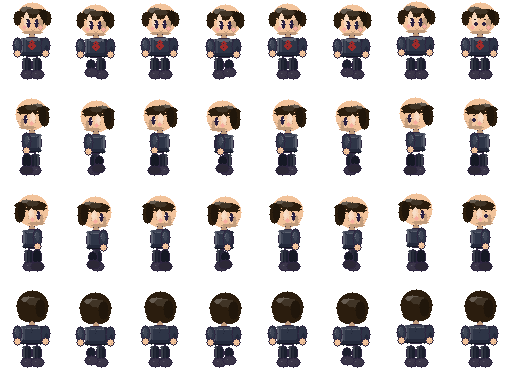
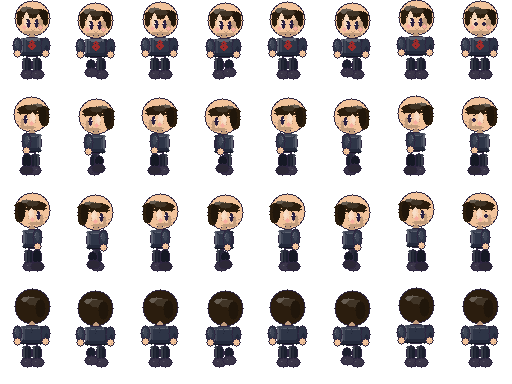
fix: restore head outline ring, fix dark blob behind player head, fix Yuki bald appearance
- Replace solid OUTLINE head disk with ciO outlined circle in both
  generate-assets.ts and chargen.ts (runtime sprite generator)
- Move sideburns inward to stay within head outline bounds
- Expand ponytail hair cap to fully cover top of head (y=9 vs y=13)
- Apply fixes to both pre-baked and runtime character generators

diff --git a/scripts/generate-assets.ts b/scripts/generate-assets.ts
@@ -1661,7 +1661,7 @@ function drawChar(s: Sheet, ox: number, oy: number, pal: CharPalette, dir: Dir, 
       el(hx(32), hy(15), 10, 2, skinDk);
     } else if (hs === "balding") {
       ci(hx(32), hy(18), 16, pal.skin);
-      el(hx(17), hy(18), 4, 5 + hb, pal.hair); el(hx(47), hy(18), 4, 5 + hb, pal.hair);
+      el(hx(19), hy(18), 3, 5 + hb, pal.hair); el(hx(45), hy(18), 3, 5 + hb, pal.hair);
       el(hx(32), hy(14), 6, 3, pal.hair);
       s.set(hx(27), hy(15), pal.skin); s.set(hx(37), hy(15), pal.skin);
       el(hx(32), hy(16), 4, 1, hairDk);
@@ -1669,7 +1669,7 @@ function drawChar(s: Sheet, ox: number, oy: number, pal: CharPalette, dir: Dir, 
     } else if (hs === "spiky") {
       el(hx(32), hy(13), 16, 5, pal.hair);
       for (let i = -2; i <= 2; i++) { const sx = hx(32 + i * 6); s.set(sx, hy(4 + Math.abs(i) * 2), pal.hair); s.set(sx + 1, hy(5 + Math.abs(i) * 2), pal.hair); s.set(sx - 1, hy(6 + Math.abs(i) * 2), pal.hair); }
-      el(hx(17), hy(18), 4, 7 + hb, pal.hair); el(hx(47), hy(18), 4, 7 + hb, pal.hair);
+      el(hx(19), hy(18), 3, 7 + hb, pal.hair); el(hx(45), hy(18), 3, 7 + hb, pal.hair);
       el(hx(32), hy(14), 15, 4, pal.hair);
       s.set(hx(24), hy(14), pal.hair); s.set(hx(30), hy(13), pal.hair); s.set(hx(34), hy(13), pal.hair); s.set(hx(40), hy(14), pal.hair);
       el(hx(28), hy(8), 6, 3, hairLi); el(hx(34), hy(10), 7, 3, hairMid); el(hx(43), hy(16), 4, 7, hairDk);
@@ -1684,15 +1684,15 @@ function drawChar(s: Sheet, ox: number, oy: number, pal: CharPalette, dir: Dir, 
       el(hx(18), hy(18), 3, 5, pal.hair); el(hx(46), hy(18), 3, 5, pal.hair);
       el(hx(28), hy(12), 6, 2, hairLi); el(hx(34), hy(13), 6, 2, hairMid); el(hx(43), hy(16), 3, 5, hairDk);
     } else if (hs === "ponytail") {
-      el(hx(32), hy(13), 16, 5, pal.hair);
-      el(hx(17), hy(18), 4, 7, pal.hair);
+      el(hx(32), hy(9), 16, 9, pal.hair);
+      el(hx(19), hy(18), 3, 7, pal.hair);
       el(hx(50), hy(15), 3, 8 + hb, pal.hair); s.set(hx(52), hy(17 + hb), pal.hair); s.set(hx(53), hy(20 + hb), pal.hair);
       el(hx(32), hy(14), 15, 4, pal.hair); rr(hx(21), hy(16), 22, 2, 3, pal.hair);
-      el(hx(28), hy(9), 7, 3, hairLi); el(hx(34), hy(11), 8, 4, hairMid); el(hx(43), hy(16), 4, 7, hairDk);
+      el(hx(28), hy(6), 7, 3, hairLi); el(hx(34), hy(8), 8, 4, hairMid); el(hx(43), hy(16), 4, 7, hairDk);
       el(hx(51), hy(14), 2, 3, hairLi);
     } else if (hs === "swept") {
       el(hx(32), hy(13), 16, 5, pal.hair);
-      el(hx(17), hy(18), 4, 7 + hb, pal.hair); el(hx(47), hy(18), 4, 7 + hb, pal.hair);
+      el(hx(19), hy(18), 3, 7 + hb, pal.hair); el(hx(45), hy(18), 3, 7 + hb, pal.hair);
       el(hx(36), hy(15), 10, 3, pal.hair);
       rr(hx(25), hy(16), 20, 2, 3, pal.hair);
       s.set(hx(24), hy(15), pal.skin); s.set(hx(25), hy(14), pal.skin);
@@ -1701,13 +1701,13 @@ function drawChar(s: Sheet, ox: number, oy: number, pal: CharPalette, dir: Dir, 
     } else if (hs === "curly") {
       el(hx(32), hy(12), 16, 5, pal.hair);
       ci(hx(22), hy(8), 4, pal.hair); ci(hx(32), hy(6), 5, pal.hair); ci(hx(42), hy(8), 4, pal.hair);
-      el(hx(16), hy(19), 5, 8 + hb, pal.hair); el(hx(48), hy(19), 5, 8 + hb, pal.hair);
+      el(hx(19), hy(19), 3, 8 + hb, pal.hair); el(hx(45), hy(19), 3, 8 + hb, pal.hair);
       el(hx(32), hy(14), 15, 4, pal.hair); ci(hx(25), hy(15), 3, pal.hair); ci(hx(39), hy(15), 3, pal.hair);
       ci(hx(26), hy(8), 2, hairLi); ci(hx(34), hy(7), 2, hairRim); el(hx(38), hy(10), 4, 3, hairMid); el(hx(43), hy(16), 4, 7, hairDk);
     } else if (hs === "bun") {
       el(hx(32), hy(13), 16, 5, pal.hair);
       ci(hx(32), hy(4), 5, pal.hair); ci(hx(32), hy(4), 3, hairMid);
-      el(hx(17), hy(18), 4, 7 + hb, pal.hair); el(hx(47), hy(18), 4, 7 + hb, pal.hair);
+      el(hx(19), hy(18), 3, 7 + hb, pal.hair); el(hx(45), hy(18), 3, 7 + hb, pal.hair);
       el(hx(32), hy(14), 15, 4, pal.hair); rr(hx(21), hy(16), 22, 2, 3, pal.hair);
       el(hx(28), hy(9), 7, 3, hairLi); el(hx(34), hy(11), 8, 4, hairMid); el(hx(43), hy(16), 4, 7, hairDk);
       ci(hx(30), hy(3), 2, hairRim);
@@ -1719,7 +1719,7 @@ function drawChar(s: Sheet, ox: number, oy: number, pal: CharPalette, dir: Dir, 
       s.set(hx(30), hy(4), hairLi); s.set(hx(31), hy(6), hairMid);
     } else if (hs === "afro") {
       ci(hx(32), hy(12), 18, pal.hair);
-      el(hx(17), hy(18), 5, 7 + hb, pal.hair); el(hx(47), hy(18), 5, 7 + hb, pal.hair);
+      el(hx(19), hy(18), 3, 7 + hb, pal.hair); el(hx(45), hy(18), 3, 7 + hb, pal.hair);
       ci(hx(26), hy(8), 3, hairLi); ci(hx(36), hy(10), 4, hairMid); el(hx(43), hy(16), 4, 7, hairDk);
     } else if (hs === "braids") {
       el(hx(32), hy(13), 16, 5, pal.hair);
@@ -1731,7 +1731,7 @@ function drawChar(s: Sheet, ox: number, oy: number, pal: CharPalette, dir: Dir, 
       el(hx(32), hy(13), 16, 5, pal.hair);
       ci(hx(15), hy(20), 4, pal.hair); ci(hx(49), hy(20), 4, pal.hair);
       ci(hx(15), hy(20), 2, hairMid); ci(hx(49), hy(20), 2, hairMid);
-      el(hx(17), hy(18), 4, 7 + hb, pal.hair); el(hx(47), hy(18), 4, 7 + hb, pal.hair);
+      el(hx(19), hy(18), 3, 7 + hb, pal.hair); el(hx(45), hy(18), 3, 7 + hb, pal.hair);
       el(hx(32), hy(14), 15, 4, pal.hair); rr(hx(21), hy(16), 22, 2, 3, pal.hair);
       el(hx(28), hy(9), 7, 3, hairLi); el(hx(34), hy(11), 8, 4, hairMid); el(hx(43), hy(16), 4, 7, hairDk);
     } else if (hs === "bob") {
@@ -1748,7 +1748,7 @@ function drawChar(s: Sheet, ox: number, oy: number, pal: CharPalette, dir: Dir, 
       el(hx(28), hy(9), 7, 3, hairLi); el(hx(34), hy(11), 8, 4, hairMid); el(hx(43), hy(16), 4, 7, hairDk);
     } else {
       el(hx(32), hy(13), 16, 5, pal.hair);
-      el(hx(17), hy(18), 4, 7 + hb, pal.hair); el(hx(47), hy(18), 4, 7 + hb, pal.hair);
+      el(hx(19), hy(18), 3, 7 + hb, pal.hair); el(hx(45), hy(18), 3, 7 + hb, pal.hair);
       el(hx(32), hy(14), 15, 4, pal.hair); rr(hx(21), hy(16), 22, 2, 3, pal.hair);
       el(hx(28), hy(9), 7, 3, hairLi); el(hx(26), hy(10), 4, 2, hairRim); el(hx(34), hy(11), 8, 4, hairMid);
       el(hx(43), hy(16), 4, 7, hairDk); s.set(hx(44), hy(14), hairDk); s.set(hx(45), hy(18), hairDk);
@@ -1861,11 +1861,11 @@ function drawChar(s: Sheet, ox: number, oy: number, pal: CharPalette, dir: Dir, 
       el(hx(32), hy(16), 13, 2, pal.hair);
       el(hx(26), hy(11), 5, 2, hairLi); el(hx(32), hy(13), 5, 2, hairMid); el(hx(21), hy(19), 3, 7, hairDk);
     } else if (hs === "ponytail") {
-      el(hx(30), hy(13), 16, 5, pal.hair);
+      el(hx(30), hy(9), 16, 9, pal.hair);
       el(hx(16), hy(18), 4, 10 + hb, pal.hair); s.set(hx(15), hy(20 + hb), pal.hair); s.set(hx(15), hy(22 + hb), pal.hair);
       el(hx(19), hy(21), 5, 9, pal.hair);
       el(hx(32), hy(16), 13, 2, pal.hair); rr(hx(25), hy(16), 18, 2, 3, pal.hair);
-      el(hx(26), hy(9), 5, 2, hairLi); el(hx(32), hy(11), 6, 3, hairMid); el(hx(21), hy(19), 4, 9, hairDk);
+      el(hx(26), hy(5), 5, 2, hairLi); el(hx(32), hy(8), 6, 3, hairMid); el(hx(21), hy(19), 4, 9, hairDk);
     } else if (hs === "swept") {
       el(hx(30), hy(13), 16, 5, pal.hair); el(hx(19), hy(21), 5, 9 + hb, pal.hair);
       el(hx(36), hy(16), 10, 2, pal.hair); rr(hx(27), hy(16), 18, 2, 3, pal.hair);
@@ -2103,8 +2103,8 @@ function drawChar(s: Sheet, ox: number, oy: number, pal: CharPalette, dir: Dir, 
   // ===== ROUNDED CHIBI (64x96) — detailed, crisp edges =====
 
   if (d === "down") {
-    // ---- HEAD: round dome ----
-    ci(hx(32), hy(18), 16, pal.skin);
+    // ---- HEAD: round dome with outline ----
+    ciO(hx(32), hy(18), 17, pal.skin);
     // Face
     el(hx(32), hy(22), 13, 12, pal.skin);
     // Hair (per-style)
@@ -2235,8 +2235,8 @@ function drawChar(s: Sheet, ox: number, oy: number, pal: CharPalette, dir: Dir, 
     }
 
   } else if (d === "up") {
-    // ---- HEAD: all hair ----
-    ci(hx(32), hy(18), 16, pal.hair);
+    // ---- HEAD: all hair, with outline ----
+    ciO(hx(32), hy(18), 17, pal.hair);
     drawHairUp();
     drawHeadFeature("up");
     // Accessory
@@ -2314,7 +2314,7 @@ function drawChar(s: Sheet, ox: number, oy: number, pal: CharPalette, dir: Dir, 
 
   } else {
     // ---- RIGHT PROFILE ----
-    ci(hx(32), hy(18), 16, pal.skin);
+    ciO(hx(32), hy(18), 17, pal.skin);
     // Face
     el(hx(35), hy(24), 11, 9, pal.skin);
     // Hair (per-style)

diff --git a/client/src/game/chargen.ts b/client/src/game/chargen.ts
@@ -322,7 +322,7 @@ function drawChar(s: PixelSheet, ox: number, oy: number, pal: CharPalette, dir: 
       el(hx(32), hy(15), 10, 2, skinDk);
     } else if (hs === "balding") {
       ci(hx(32), hy(18), 16, pal.skin);
-      el(hx(17), hy(18), 4, 5 + hb, pal.hair); el(hx(47), hy(18), 4, 5 + hb, pal.hair);
+      el(hx(19), hy(18), 3, 5 + hb, pal.hair); el(hx(45), hy(18), 3, 5 + hb, pal.hair);
       el(hx(32), hy(14), 6, 3, pal.hair);
       s.set(hx(27), hy(15), pal.skin); s.set(hx(37), hy(15), pal.skin);
       el(hx(32), hy(16), 4, 1, hairDk);
@@ -330,7 +330,7 @@ function drawChar(s: PixelSheet, ox: number, oy: number, pal: CharPalette, dir: 
     } else if (hs === "spiky") {
       el(hx(32), hy(13), 16, 5, pal.hair);
       for (let i = -2; i <= 2; i++) { const sx = hx(32 + i * 6); s.set(sx, hy(4 + Math.abs(i) * 2), pal.hair); s.set(sx + 1, hy(5 + Math.abs(i) * 2), pal.hair); s.set(sx - 1, hy(6 + Math.abs(i) * 2), pal.hair); }
-      el(hx(17), hy(18), 4, 7 + hb, pal.hair); el(hx(47), hy(18), 4, 7 + hb, pal.hair);
+      el(hx(19), hy(18), 3, 7 + hb, pal.hair); el(hx(45), hy(18), 3, 7 + hb, pal.hair);
       el(hx(32), hy(14), 15, 4, pal.hair);
       s.set(hx(24), hy(14), pal.hair); s.set(hx(30), hy(13), pal.hair); s.set(hx(34), hy(13), pal.hair); s.set(hx(40), hy(14), pal.hair);
       el(hx(28), hy(8), 6, 3, hairLi); el(hx(34), hy(10), 7, 3, hairMid); el(hx(43), hy(16), 4, 7, hairDk);
@@ -345,15 +345,15 @@ function drawChar(s: PixelSheet, ox: number, oy: number, pal: CharPalette, dir: 
       el(hx(18), hy(18), 3, 5, pal.hair); el(hx(46), hy(18), 3, 5, pal.hair);
       el(hx(28), hy(12), 6, 2, hairLi); el(hx(34), hy(13), 6, 2, hairMid); el(hx(43), hy(16), 3, 5, hairDk);
     } else if (hs === "ponytail") {
-      el(hx(32), hy(13), 16, 5, pal.hair);
-      el(hx(17), hy(18), 4, 7, pal.hair);
+      el(hx(32), hy(9), 16, 9, pal.hair);
+      el(hx(19), hy(18), 3, 7, pal.hair);
       el(hx(50), hy(15), 3, 8 + hb, pal.hair); s.set(hx(52), hy(17 + hb), pal.hair); s.set(hx(53), hy(20 + hb), pal.hair);
       el(hx(32), hy(14), 15, 4, pal.hair); rr(hx(21), hy(16), 22, 2, 3, pal.hair);
-      el(hx(28), hy(9), 7, 3, hairLi); el(hx(34), hy(11), 8, 4, hairMid); el(hx(43), hy(16), 4, 7, hairDk);
+      el(hx(28), hy(6), 7, 3, hairLi); el(hx(34), hy(8), 8, 4, hairMid); el(hx(43), hy(16), 4, 7, hairDk);
       el(hx(51), hy(14), 2, 3, hairLi);
     } else if (hs === "swept") {
       el(hx(32), hy(13), 16, 5, pal.hair);
-      el(hx(17), hy(18), 4, 7 + hb, pal.hair); el(hx(47), hy(18), 4, 7 + hb, pal.hair);
+      el(hx(19), hy(18), 3, 7 + hb, pal.hair); el(hx(45), hy(18), 3, 7 + hb, pal.hair);
       el(hx(36), hy(15), 10, 3, pal.hair);
       rr(hx(25), hy(16), 20, 2, 3, pal.hair);
       s.set(hx(24), hy(15), pal.skin); s.set(hx(25), hy(14), pal.skin);
@@ -362,13 +362,13 @@ function drawChar(s: PixelSheet, ox: number, oy: number, pal: CharPalette, dir: 
     } else if (hs === "curly") {
       el(hx(32), hy(12), 16, 5, pal.hair);
       ci(hx(22), hy(8), 4, pal.hair); ci(hx(32), hy(6), 5, pal.hair); ci(hx(42), hy(8), 4, pal.hair);
-      el(hx(16), hy(19), 5, 8 + hb, pal.hair); el(hx(48), hy(19), 5, 8 + hb, pal.hair);
+      el(hx(19), hy(19), 3, 8 + hb, pal.hair); el(hx(45), hy(19), 3, 8 + hb, pal.hair);
       el(hx(32), hy(14), 15, 4, pal.hair); ci(hx(25), hy(15), 3, pal.hair); ci(hx(39), hy(15), 3, pal.hair);
       ci(hx(26), hy(8), 2, hairLi); ci(hx(34), hy(7), 2, hairRim); el(hx(38), hy(10), 4, 3, hairMid); el(hx(43), hy(16), 4, 7, hairDk);
     } else if (hs === "bun") {
       el(hx(32), hy(13), 16, 5, pal.hair);
       ci(hx(32), hy(4), 5, pal.hair); ci(hx(32), hy(4), 3, hairMid);
-      el(hx(17), hy(18), 4, 7 + hb, pal.hair); el(hx(47), hy(18), 4, 7 + hb, pal.hair);
+      el(hx(19), hy(18), 3, 7 + hb, pal.hair); el(hx(45), hy(18), 3, 7 + hb, pal.hair);
       el(hx(32), hy(14), 15, 4, pal.hair); rr(hx(21), hy(16), 22, 2, 3, pal.hair);
       el(hx(28), hy(9), 7, 3, hairLi); el(hx(34), hy(11), 8, 4, hairMid); el(hx(43), hy(16), 4, 7, hairDk);
       ci(hx(30), hy(3), 2, hairRim);
@@ -380,7 +380,7 @@ function drawChar(s: PixelSheet, ox: number, oy: number, pal: CharPalette, dir: 
       s.set(hx(30), hy(4), hairLi); s.set(hx(31), hy(6), hairMid);
     } else if (hs === "afro") {
       ci(hx(32), hy(12), 18, pal.hair);
-      el(hx(17), hy(18), 5, 7 + hb, pal.hair); el(hx(47), hy(18), 5, 7 + hb, pal.hair);
+      el(hx(19), hy(18), 3, 7 + hb, pal.hair); el(hx(45), hy(18), 3, 7 + hb, pal.hair);
       ci(hx(26), hy(8), 3, hairLi); ci(hx(36), hy(10), 4, hairMid); el(hx(43), hy(16), 4, 7, hairDk);
     } else if (hs === "braids") {
       el(hx(32), hy(13), 16, 5, pal.hair);
@@ -392,7 +392,7 @@ function drawChar(s: PixelSheet, ox: number, oy: number, pal: CharPalette, dir: 
       el(hx(32), hy(13), 16, 5, pal.hair);
       ci(hx(15), hy(20), 4, pal.hair); ci(hx(49), hy(20), 4, pal.hair);
       ci(hx(15), hy(20), 2, hairMid); ci(hx(49), hy(20), 2, hairMid);
-      el(hx(17), hy(18), 4, 7 + hb, pal.hair); el(hx(47), hy(18), 4, 7 + hb, pal.hair);
+      el(hx(19), hy(18), 3, 7 + hb, pal.hair); el(hx(45), hy(18), 3, 7 + hb, pal.hair);
       el(hx(32), hy(14), 15, 4, pal.hair); rr(hx(21), hy(16), 22, 2, 3, pal.hair);
       el(hx(28), hy(9), 7, 3, hairLi); el(hx(34), hy(11), 8, 4, hairMid); el(hx(43), hy(16), 4, 7, hairDk);
     } else if (hs === "bob") {
@@ -409,7 +409,7 @@ function drawChar(s: PixelSheet, ox: number, oy: number, pal: CharPalette, dir: 
       el(hx(28), hy(9), 7, 3, hairLi); el(hx(34), hy(11), 8, 4, hairMid); el(hx(43), hy(16), 4, 7, hairDk);
     } else {
       el(hx(32), hy(13), 16, 5, pal.hair);
-      el(hx(17), hy(18), 4, 7 + hb, pal.hair); el(hx(47), hy(18), 4, 7 + hb, pal.hair);
+      el(hx(19), hy(18), 3, 7 + hb, pal.hair); el(hx(45), hy(18), 3, 7 + hb, pal.hair);
       el(hx(32), hy(14), 15, 4, pal.hair); rr(hx(21), hy(16), 22, 2, 3, pal.hair);
       el(hx(28), hy(9), 7, 3, hairLi); el(hx(26), hy(10), 4, 2, hairRim); el(hx(34), hy(11), 8, 4, hairMid);
       el(hx(43), hy(16), 4, 7, hairDk); s.set(hx(44), hy(14), hairDk); s.set(hx(45), hy(18), hairDk);
@@ -522,11 +522,11 @@ function drawChar(s: PixelSheet, ox: number, oy: number, pal: CharPalette, dir: 
       el(hx(32), hy(16), 13, 2, pal.hair);
       el(hx(26), hy(11), 5, 2, hairLi); el(hx(32), hy(13), 5, 2, hairMid); el(hx(21), hy(19), 3, 7, hairDk);
     } else if (hs === "ponytail") {
-      el(hx(30), hy(13), 16, 5, pal.hair);
+      el(hx(30), hy(9), 16, 9, pal.hair);
       el(hx(16), hy(18), 4, 10 + hb, pal.hair); s.set(hx(15), hy(20 + hb), pal.hair); s.set(hx(15), hy(22 + hb), pal.hair);
       el(hx(19), hy(21), 5, 9, pal.hair);
       el(hx(32), hy(16), 13, 2, pal.hair); rr(hx(25), hy(16), 18, 2, 3, pal.hair);
-      el(hx(26), hy(9), 5, 2, hairLi); el(hx(32), hy(11), 6, 3, hairMid); el(hx(21), hy(19), 4, 9, hairDk);
+      el(hx(26), hy(5), 5, 2, hairLi); el(hx(32), hy(8), 6, 3, hairMid); el(hx(21), hy(19), 4, 9, hairDk);
     } else if (hs === "swept") {
       el(hx(30), hy(13), 16, 5, pal.hair); el(hx(19), hy(21), 5, 9 + hb, pal.hair);
       el(hx(36), hy(16), 10, 2, pal.hair); rr(hx(27), hy(16), 18, 2, 3, pal.hair);
@@ -764,7 +764,7 @@ function drawChar(s: PixelSheet, ox: number, oy: number, pal: CharPalette, dir: 
   // ===== ROUNDED CHIBI (64x96) — detailed, crisp edges =====
 
   if (d === "down") {
-    ci(hx(32), hy(18), 17, OUTLINE);
+    ciO(hx(32), hy(18), 17, pal.skin);
     el(hx(32), hy(22), 13, 12, pal.skin);
     drawHairDown();
     drawHeadFeature("down");
@@ -868,7 +868,7 @@ function drawChar(s: PixelSheet, ox: number, oy: number, pal: CharPalette, dir: 
     }
 
   } else if (d === "up") {
-    ci(hx(32), hy(18), 17, OUTLINE);
+    ciO(hx(32), hy(18), 17, pal.hair);
     drawHairUp();
     drawHeadFeature("up");
     drawAccessory("up");
@@ -934,7 +934,7 @@ function drawChar(s: PixelSheet, ox: number, oy: number, pal: CharPalette, dir: 
     }
 
   } else {
-    ci(hx(32), hy(18), 17, OUTLINE);
+    ciO(hx(32), hy(18), 17, pal.skin);
     el(hx(35), hy(24), 11, 9, pal.skin);
     drawHairRight();
     drawHeadFeature("right");
